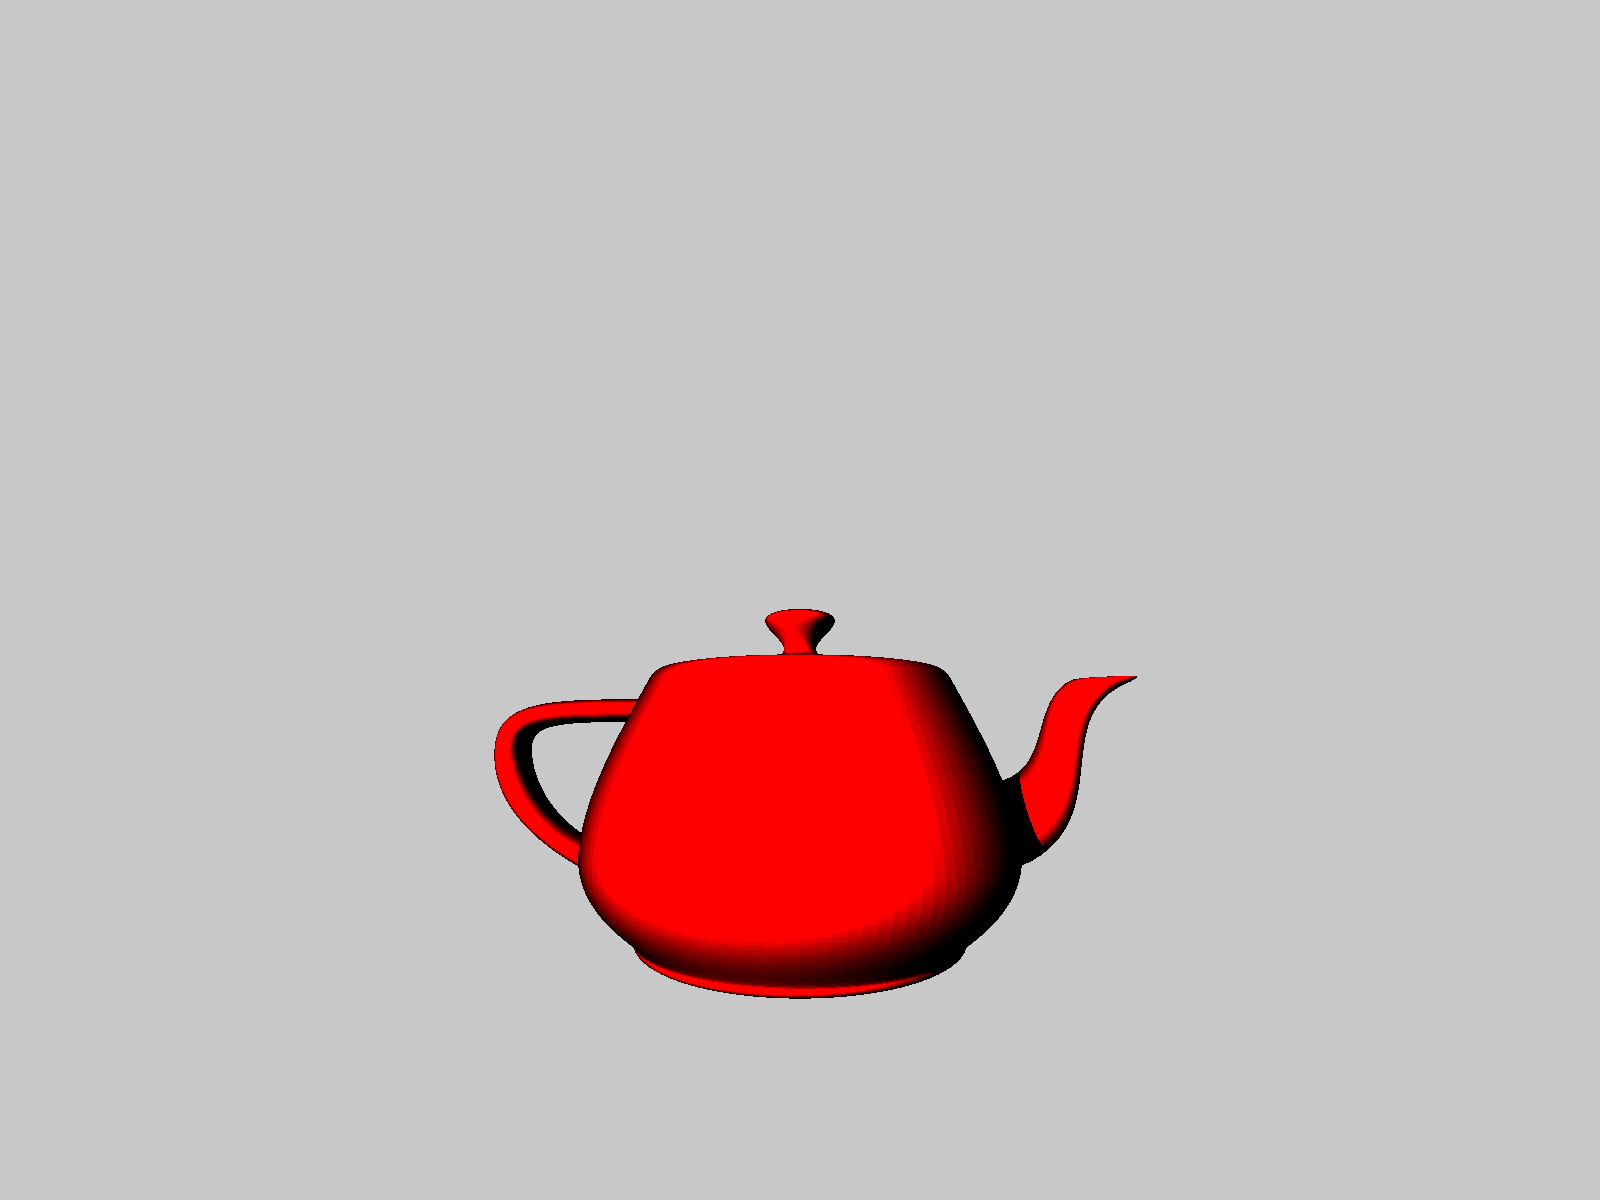
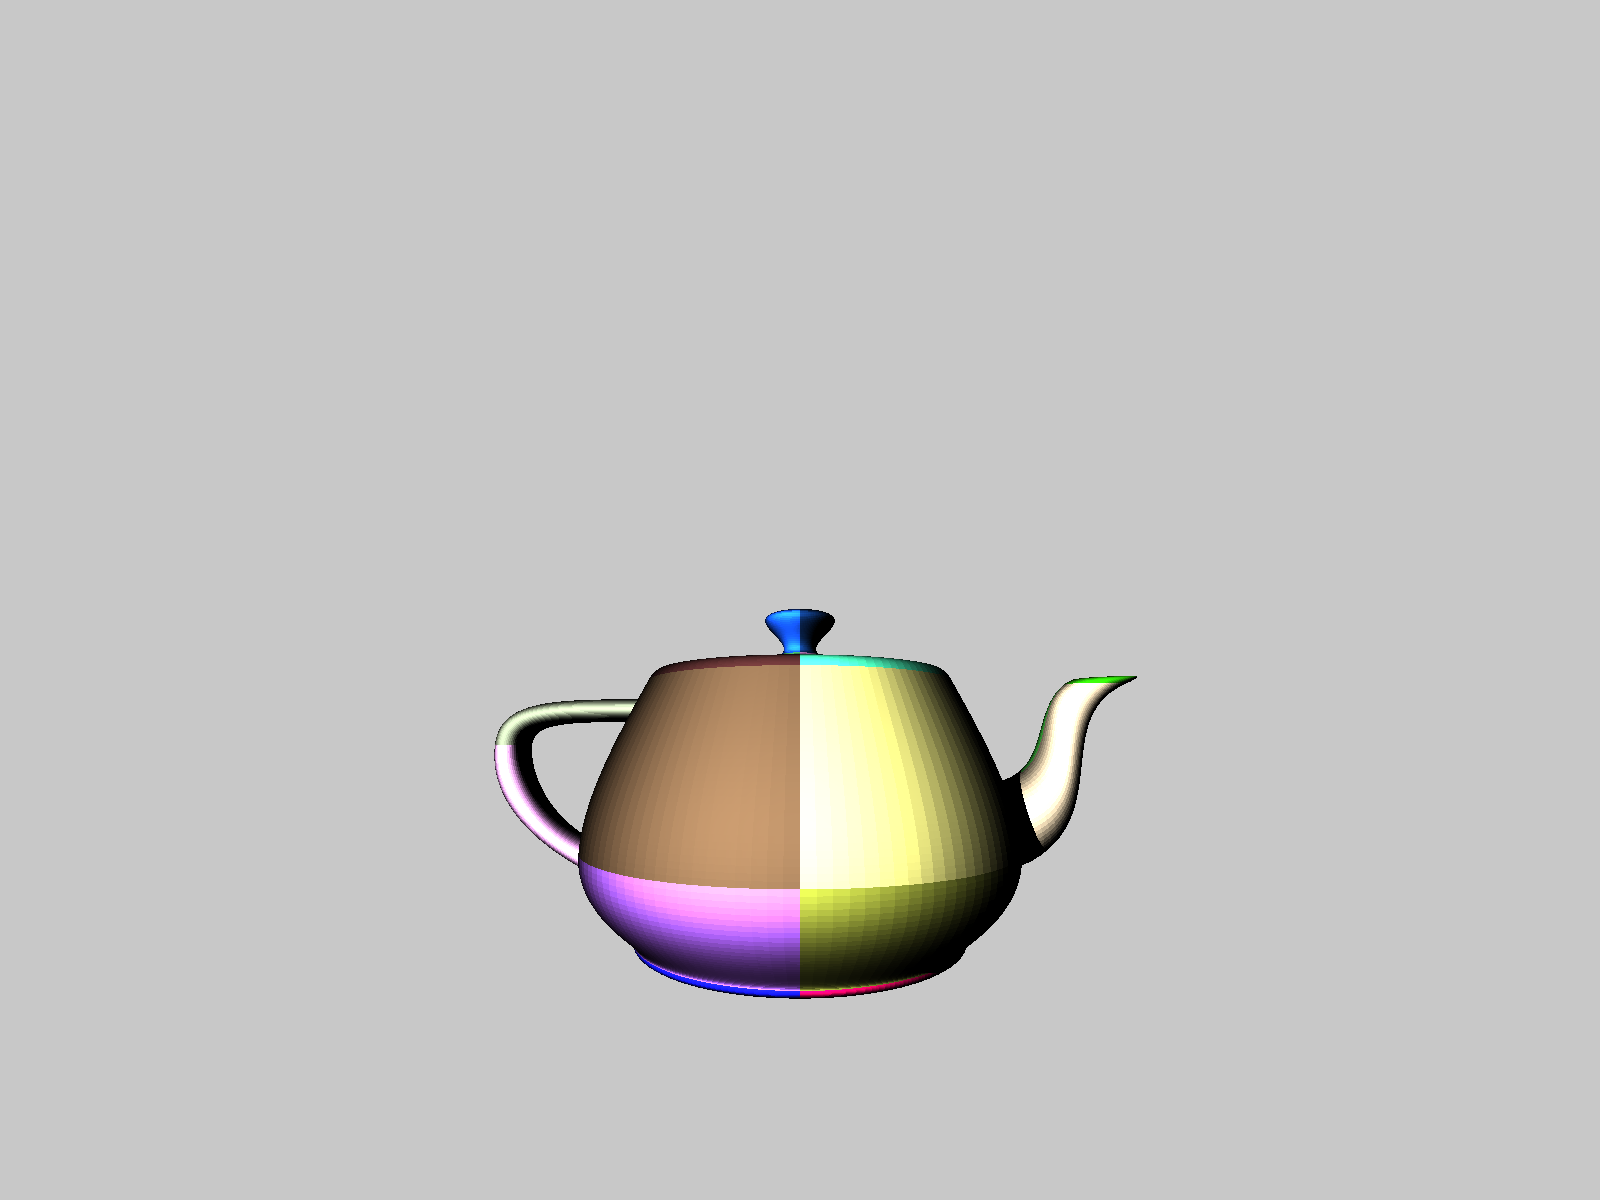
some small cleanup

Changed region(s): [[0.2812, 0.4933, 0.7188, 0.8325]]

diff --git a/main.go b/main.go
@@ -3,6 +3,8 @@ package main
 import (
 	"fmt"
 	"math"
+	"math/rand"
+	"time"
 
 	m "github.com/deosjr/GRayT/src/model"
 	"github.com/deosjr/GRayT/src/render"
@@ -28,9 +30,9 @@ func main() {
 	l1 := m.NewDistantLight(m.Vector{1, -1, 1}, m.NewColor(255, 255, 255), 50)
 	scene.AddLights(l1)
 
-	m.SetBackgroundColor(m.NewColor(200, 200, 200))
+	rand.Seed(time.Now().Unix())
 
-	diffMat := &m.DiffuseMaterial{Color: m.NewColor(250, 0, 0)}
+	m.SetBackgroundColor(m.NewColor(200, 200, 200))
 
 	patches, err := LoadPatches("teapot")
 	if err != nil {
@@ -43,6 +45,7 @@ func main() {
 	//scale := m.Scale(1, 4.0/3.0, 1)
 	transformation := translation.Mul(rotation)//.Mul(scale)
 	for _, patch := range patches {
+		diffMat := &m.DiffuseMaterial{Color: m.NewColor(uint8(rand.Intn(255)), uint8(rand.Intn(255)), uint8(rand.Intn(255)))}
 		complexObject := patch.Triangulate(32, diffMat)
 		// not really a mesh but I guess thats WIP
 		patchMesh := m.NewSharedObject(complexObject, transformation)

diff --git a/gen/curves.go b/gen/curves.go
@@ -59,11 +59,7 @@ func (s sphere) NormalMappedSphere(transform m.Transform, mat m.Material, n int)
 		},
 	}
 	triangles := s.Triangulate(n, nmat)
-	objs := make([]m.Object, len(triangles))
-	for i, t := range triangles {
-		objs[i] = t
-	}
-	complexObject := m.NewComplexObject(objs)
+	complexObject := m.NewTriangleComplexObject(triangles)
 	return m.NewSharedObject(complexObject, transform)
 }
 
